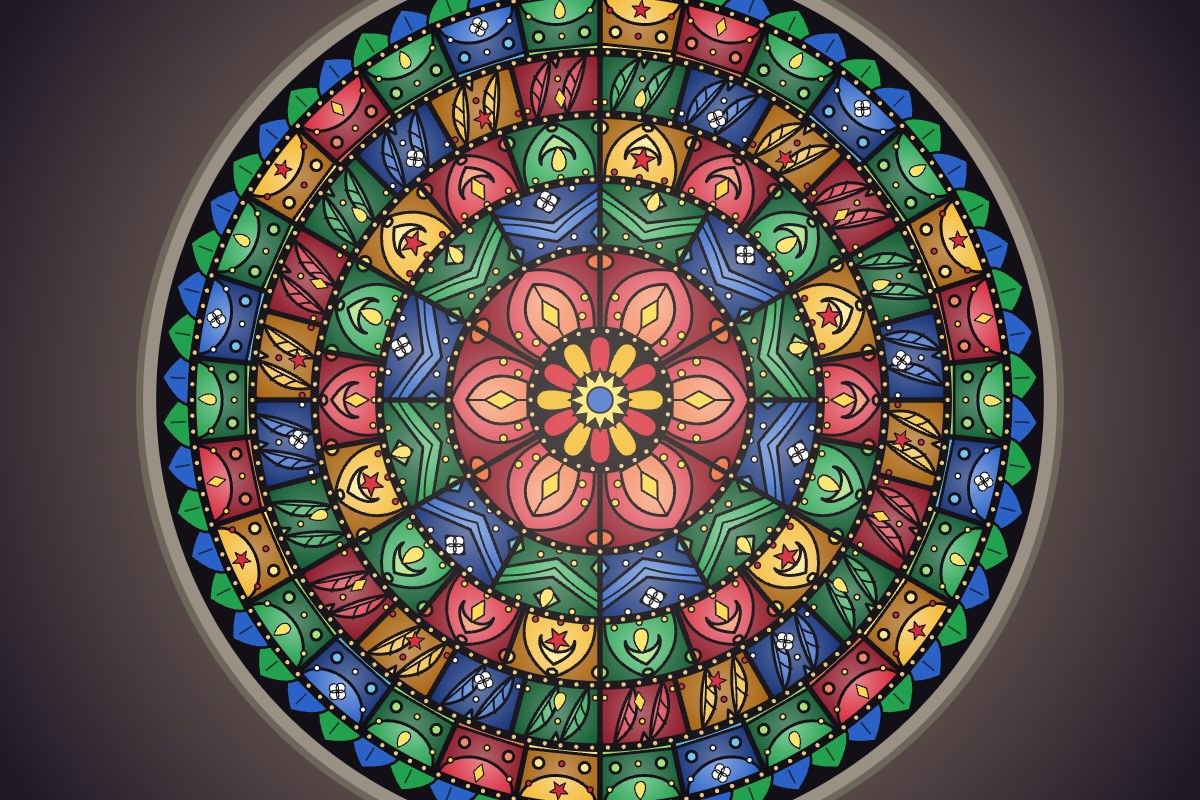
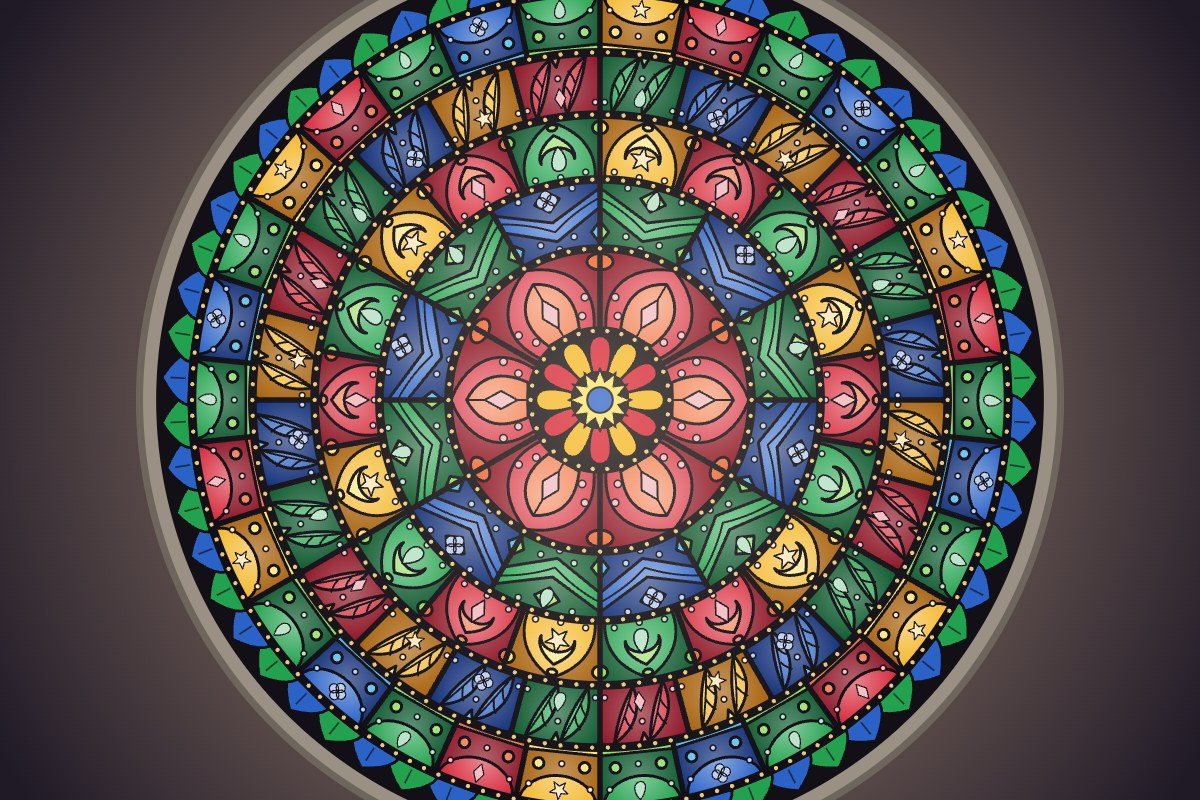
Kaleido: each jewel in a pale tint of its own glass, chosen by the owner
The palette read as the wrong colour. A red swatch carried a yellow jewel, an
amber one a red jewel, and the eye picks the colour in the middle, so players
would choose the jewel's colour and get the glass's. Each gem is now
lighten(main, 0.7) of its own glass (pink on ruby, cream on amber, mint on
emerald, sky on sapphire), on the board and in the picker alike, so a piece
is one colour family everywhere. The owner picked this over white jewels.

The cover art is redrawn by the same painters to match. Versions: play.js
v=90, play.css v=5, splash v=6, og v=3 on the game and its guide, teaser v=6.

diff --git a/kaleido/index.html b/kaleido/index.html
@@ -15,21 +15,21 @@
   <meta property="og:url" content="https://zamborin.com/kaleido/" />
   <meta property="og:title" content="Kaleido — a stained-glass symmetry puzzle" />
   <meta property="og:description" content="Panes are missing from a rose window and no two of the same colour may touch. Fill one wedge and the whole window follows. A calm, clever puzzle, free to play." />
-  <meta property="og:image" content="https://zamborin.com/images/kaleido-og.jpg?v=2" />
+  <meta property="og:image" content="https://zamborin.com/images/kaleido-og.jpg?v=3" />
   <meta property="og:image:width" content="1200" />
   <meta property="og:image:height" content="630" />
   <meta property="og:image:alt" content="A mandala rose window in ruby, amber, emerald and sapphire glass, with a rosette at its heart and a border of leaves, beside the word KALEIDO in gold" />
   <meta name="twitter:card" content="summary_large_image" />
   <meta name="twitter:title" content="Kaleido — a stained-glass symmetry puzzle" />
   <meta name="twitter:description" content="Fill the missing panes in a rose window. No two of the same colour may touch, and one wedge paints the rest. Free to play." />
-  <meta name="twitter:image" content="https://zamborin.com/images/kaleido-og.jpg?v=2" />
+  <meta name="twitter:image" content="https://zamborin.com/images/kaleido-og.jpg?v=3" />
 
   <link rel="preconnect" href="https://fonts.googleapis.com">
   <link rel="preconnect" href="https://fonts.gstatic.com" crossorigin>
   <link href="https://fonts.googleapis.com/css2?family=Inter:wght@400;500;600;700;800&display=swap" rel="stylesheet">
   <link rel="stylesheet" href="../shared/tokens.css?v=1" />
   <link rel="stylesheet" href="../shared/chrome.css?v=20" />
-  <link rel="stylesheet" href="./play.css?v=4" />
+  <link rel="stylesheet" href="./play.css?v=5" />
   <!-- Google AdSense -->
   <meta name="google-adsense-account" content="ca-pub-9207689324865969">
   <script async src="https://pagead2.googlesyndication.com/pagead/js/adsbygoogle.js?client=ca-pub-9207689324865969" crossorigin="anonymous"></script>
@@ -41,7 +41,7 @@
     "name": "Kaleido",
     "description": "A free stained-glass symmetry puzzle. Panes are missing from a rose window and no two of the same colour may touch. Fill the gaps in one wedge and the whole window follows.",
     "url": "https://zamborin.com/kaleido/",
-    "image": "https://zamborin.com/images/kaleido-og.jpg?v=2",
+    "image": "https://zamborin.com/images/kaleido-og.jpg?v=3",
     "playMode": "SinglePlayer",
     "gamePlatform": "Web Browser",
     "applicationCategory": "Game",
@@ -176,7 +176,7 @@
   <script src="../shared/analytics.js?v=3"></script>
   <script src="../shared/embed.js?v=1"></script>
   <script defer src="../shared/ads.js?v=2"></script>
-  <script src="./play.js?v=89"></script>
+  <script src="./play.js?v=90"></script>
   <script>
     (() => {
       const btn = document.getElementById('focus-toggle');

diff --git a/guides/kaleido/index.html b/guides/kaleido/index.html
@@ -14,11 +14,11 @@
   <meta property="og:url" content="https://zamborin.com/guides/kaleido/" />
   <meta property="og:title" content="Kaleido strategy: how to read a gap and never guess" />
   <meta property="og:description" content="Starting from the most crowded gap, why the copies rule colours out, working a chain outward, and what changes as the symmetry loosens." />
-  <meta property="og:image" content="https://zamborin.com/images/kaleido-og.jpg?v=2" />
+  <meta property="og:image" content="https://zamborin.com/images/kaleido-og.jpg?v=3" />
   <meta name="twitter:card" content="summary_large_image" />
   <meta name="twitter:title" content="Kaleido strategy: how to read a gap and never guess" />
   <meta name="twitter:description" content="A practical strategy guide to solving Kaleido, the stained-glass symmetry puzzle." />
-  <meta name="twitter:image" content="https://zamborin.com/images/kaleido-og.jpg?v=2" />
+  <meta name="twitter:image" content="https://zamborin.com/images/kaleido-og.jpg?v=3" />
 
   <link rel="preconnect" href="https://fonts.googleapis.com">
   <link rel="preconnect" href="https://fonts.gstatic.com" crossorigin>
@@ -72,7 +72,7 @@
     "@type": "Article",
     "headline": "Kaleido strategy: how to read a gap and never guess",
     "description": "A practical strategy guide to Kaleido, the stained-glass symmetry puzzle: starting from the most crowded gap, why the copies rule colours out, and what changes as the symmetry loosens.",
-    "image": "https://zamborin.com/images/kaleido-og.jpg?v=2",
+    "image": "https://zamborin.com/images/kaleido-og.jpg?v=3",
     "mainEntityOfPage": { "@type": "WebPage", "@id": "https://zamborin.com/guides/kaleido/" },
     "author": { "@type": "Organization", "name": "Zamborin Games", "url": "https://zamborin.com/" },
     "publisher": { "@type": "Organization", "name": "Zamborin Games", "url": "https://zamborin.com/" }

diff --git a/kaleido/play.js b/kaleido/play.js
@@ -1038,12 +1038,19 @@
   // THE GLASS. Game art, so it carries its own palette (DESIGN-SYSTEM 1.5):
   // ruby, amber, emerald and sapphire. Each has a ground (the cell behind the
   // ornament), a main (the ornament), an accent (its inner detail) and a gem.
+  //
+  // The gem is a pale tint of its OWN glass (lighten(main, 0.7)), never a second
+  // hue. It was gold on ruby, ruby on amber and gold on emerald, and in the
+  // palette a red swatch with a yellow jewel read as the YELLOW piece: two
+  // colours in one legend, and the eye picks the one in the middle (owner,
+  // 2026-09-26). One colour family per piece keeps the picker and the board
+  // saying the same thing.
   const LEAD_INK = '#120F16';
   const GLASS = [
-    { ground: '#8E1426', main: '#D8283A', accent: '#F26A3A', gem: '#FFD84A' },   // ruby
-    { ground: '#A8620E', main: '#F4B82C', accent: '#FFE36A', gem: '#D8283A' },   // amber
-    { ground: '#0E5A30', main: '#22A24E', accent: '#8BDB5A', gem: '#FFE36A' },   // emerald
-    { ground: '#12307A', main: '#2A62C8', accent: '#48B8EE', gem: '#FFFFFF' },   // sapphire
+    { ground: '#8E1426', main: '#D8283A', accent: '#F26A3A', gem: '#F3BFC4' },   // ruby
+    { ground: '#A8620E', main: '#F4B82C', accent: '#FFE36A', gem: '#FCEAC0' },   // amber
+    { ground: '#0E5A30', main: '#22A24E', accent: '#8BDB5A', gem: '#BDE3CA' },   // emerald
+    { ground: '#12307A', main: '#2A62C8', accent: '#48B8EE', gem: '#BFD0EF' },   // sapphire
   ];
   // Unlit glass, and the unlit cells of the wedge, which are yours to fill.
   // Those breathe between WEDGE and WEDGE_HI (see drawGlass).

diff --git a/kaleido/play.css b/kaleido/play.css
@@ -13,5 +13,5 @@
    wordmark spans x 18.1%..81.9% and y 72.5%..76.3%, so at 64% of the width it
    sits inside the 82% that survives a cover-crop on the narrowest viewport
    worth designing for. */
-body.mode-desktop .splash { background-image: url('./splash-desktop.jpg?v=5'), radial-gradient(circle at 50% 44%, #3A3044, #120E17 80%); }
-body.mode-mobile  .splash { background-image: url('./splash-mobile.jpg?v=5'), radial-gradient(circle at 50% 41%, #3A3044, #120E17 80%); }
+body.mode-desktop .splash { background-image: url('./splash-desktop.jpg?v=6'), radial-gradient(circle at 50% 44%, #3A3044, #120E17 80%); }
+body.mode-mobile  .splash { background-image: url('./splash-mobile.jpg?v=6'), radial-gradient(circle at 50% 41%, #3A3044, #120E17 80%); }

diff --git a/index.html b/index.html
@@ -315,7 +315,7 @@
         </div>
       </a>
       <a class="game-card" href="./kaleido/">
-        <div class="game-card-image" style="background-image: url('./images/kaleido-teaser.jpg?v=5')"></div>
+        <div class="game-card-image" style="background-image: url('./images/kaleido-teaser.jpg?v=6')"></div>
         <div class="game-card-body">
           <div class="game-card-name">Kaleido</div>
           <div class="game-card-desc">A rose window with panes missing, and no two of the same colour may touch. Fill one wedge and it appears right round the wheel at once.</div>
